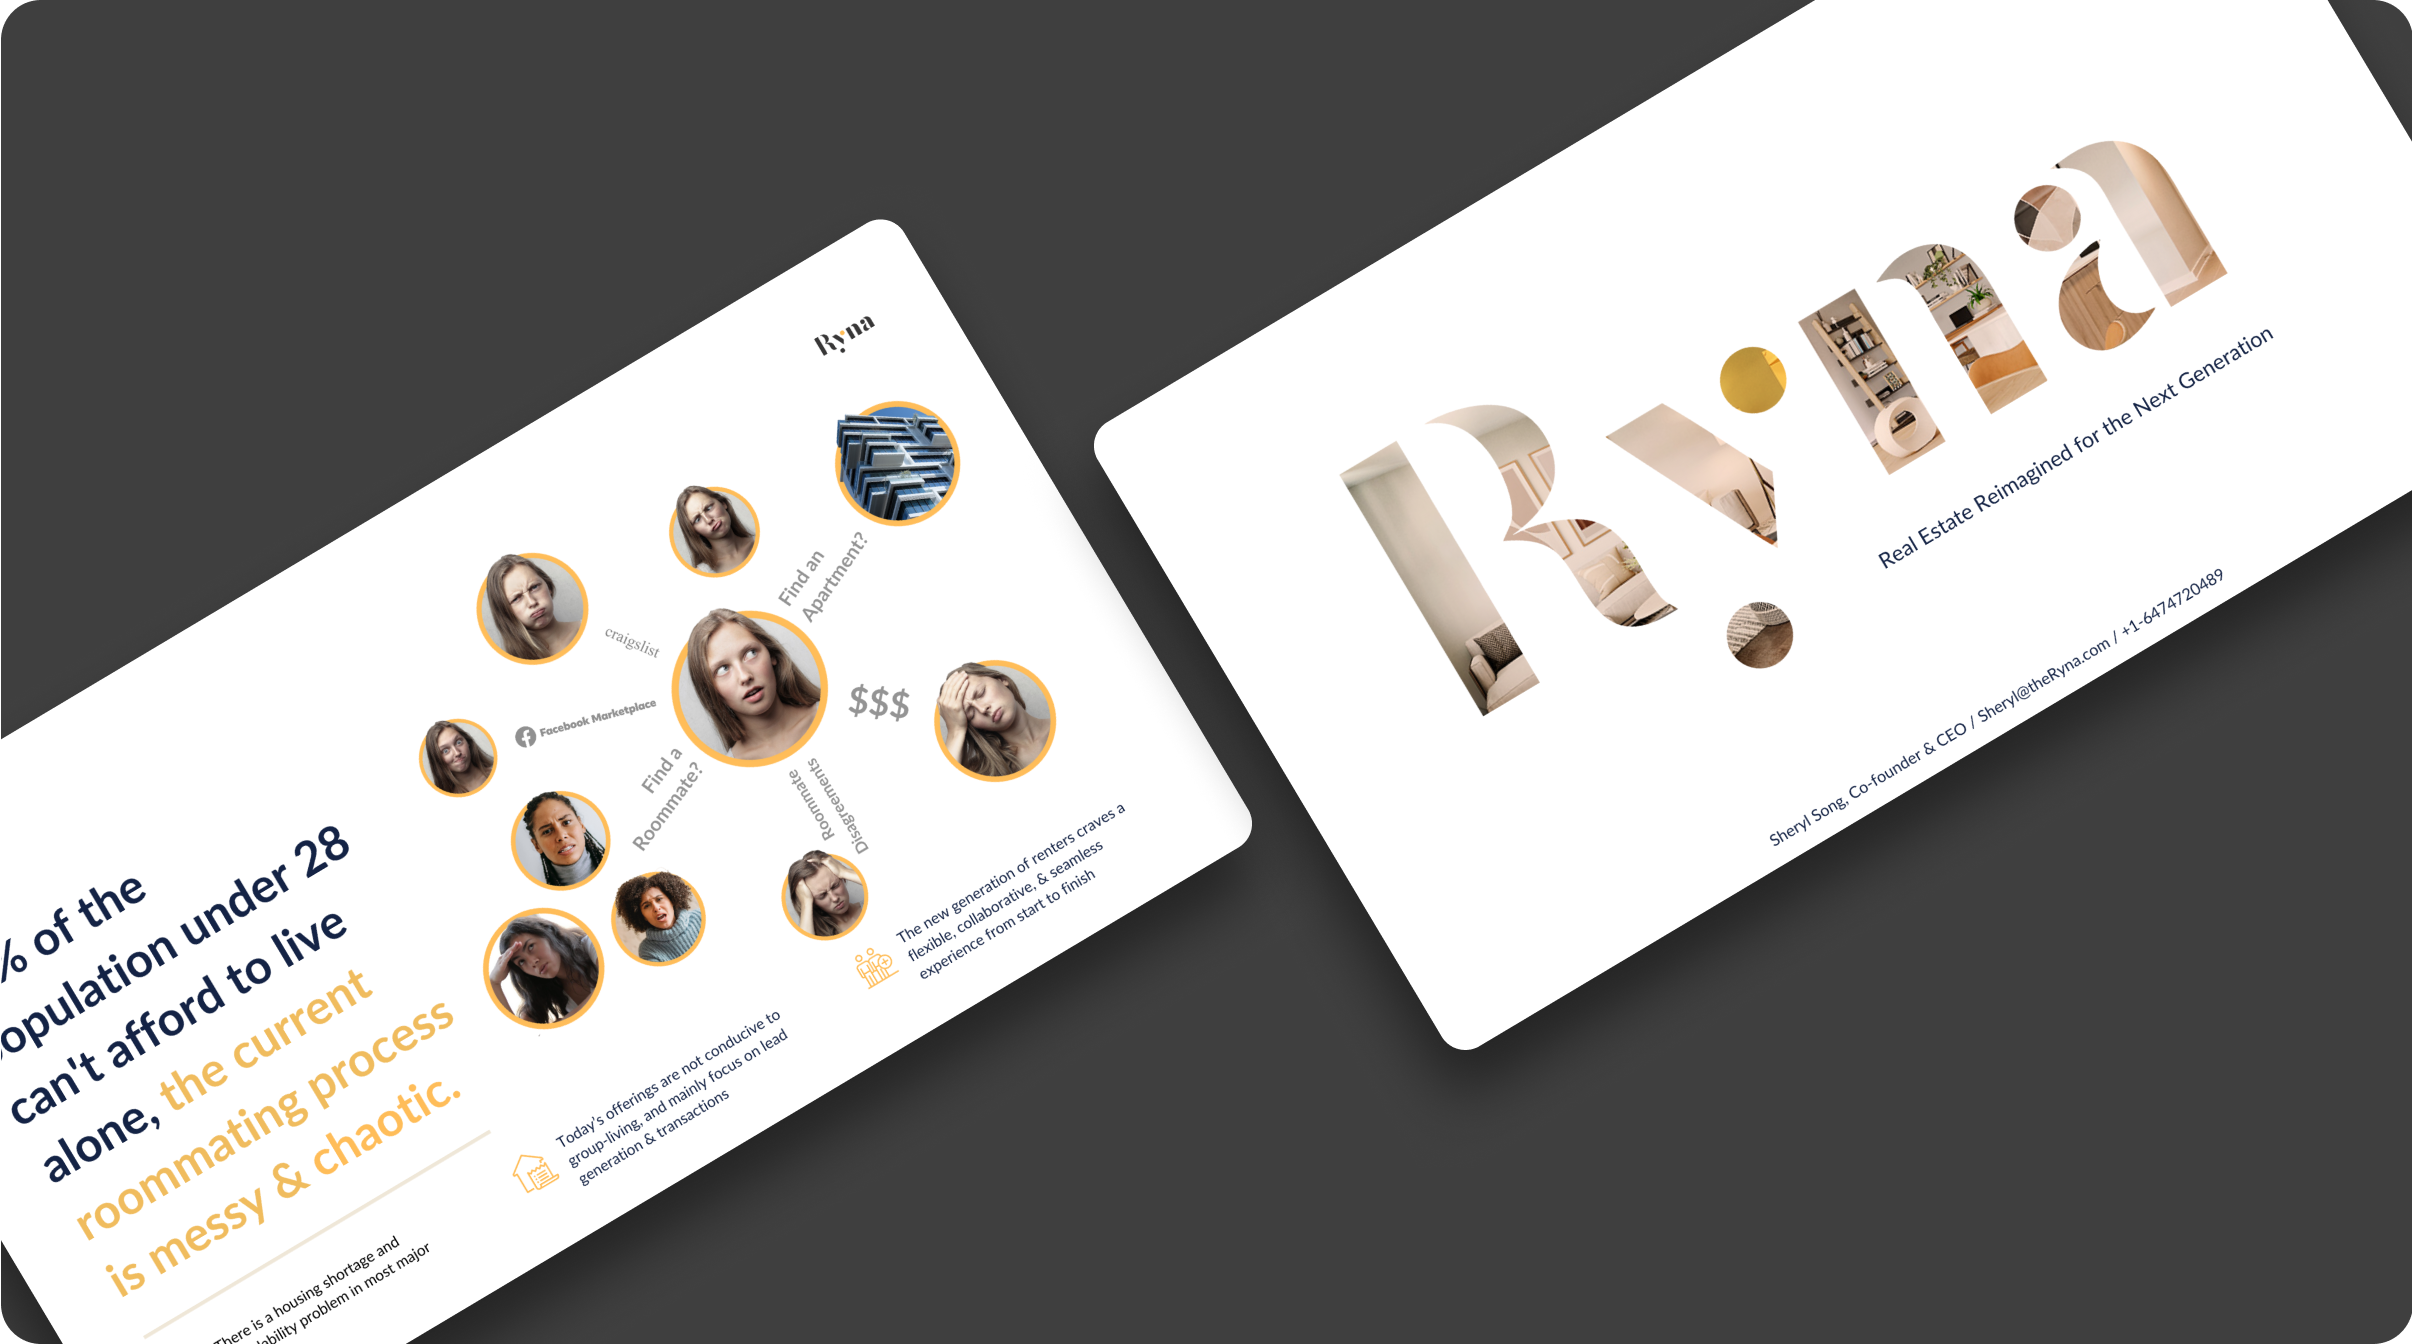
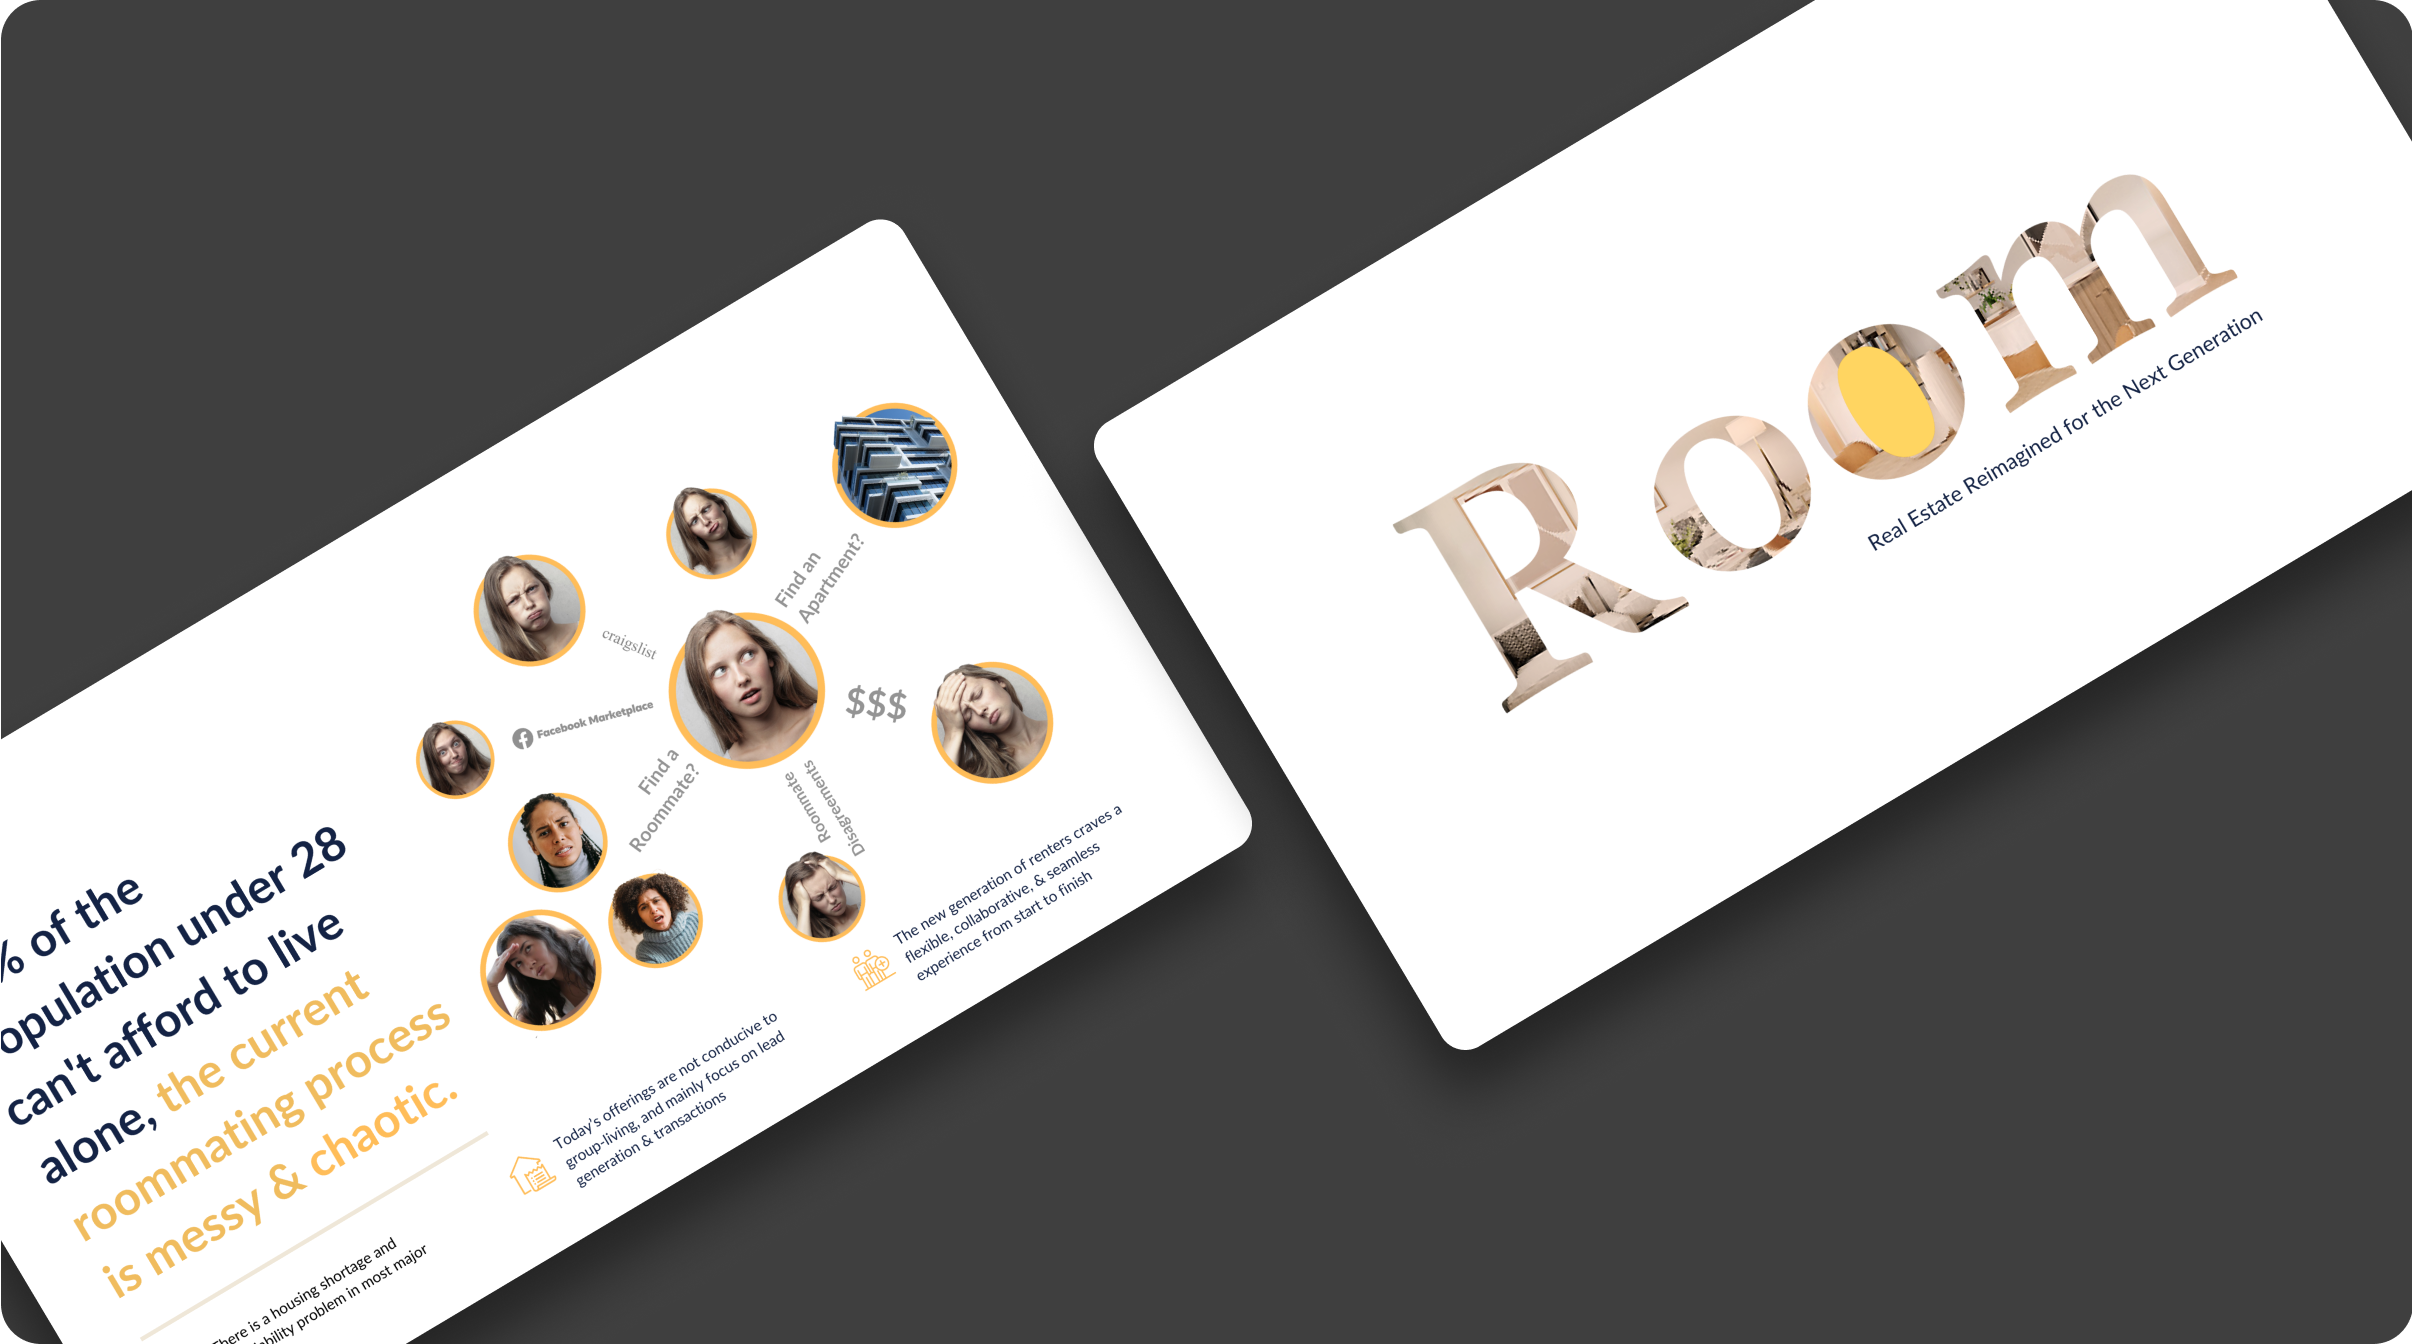
room

diff --git a/src/components/sliders/room.js b/src/components/sliders/room.js
@@ -17,16 +17,10 @@ function Carouselroom({ onClose = (props) => { } }) {
             <img src='/assets/img/portfolio/projects/room/room1.webp' alt="slide-1"/>
           </Carousel.Item>
           <Carousel.Item>
-            <img src='/assets/img/portfolio/projects/room/room2.webp' alt="slide-2"/>
+            <img src='/assets/img/portfolio/projects/room/room-banner.png' alt="slide-2"/>
           </Carousel.Item>
           <Carousel.Item>
-            <img src='/assets/img/portfolio/projects/room/room3.webp' alt="slide-3"/>
-          </Carousel.Item>
-          <Carousel.Item>
-            <img src='/assets/img/portfolio/projects/room/room4.webp' alt="slide-4"/>
-          </Carousel.Item>
-          <Carousel.Item>
-            <img src='/assets/img/portfolio/projects/room/room5.webp' alt="slide-5"/>
+            <img src='/assets/img/portfolio/projects/room/diagonal.png' alt="slide-3"/>
           </Carousel.Item>
         </Carousel>
       </div>
